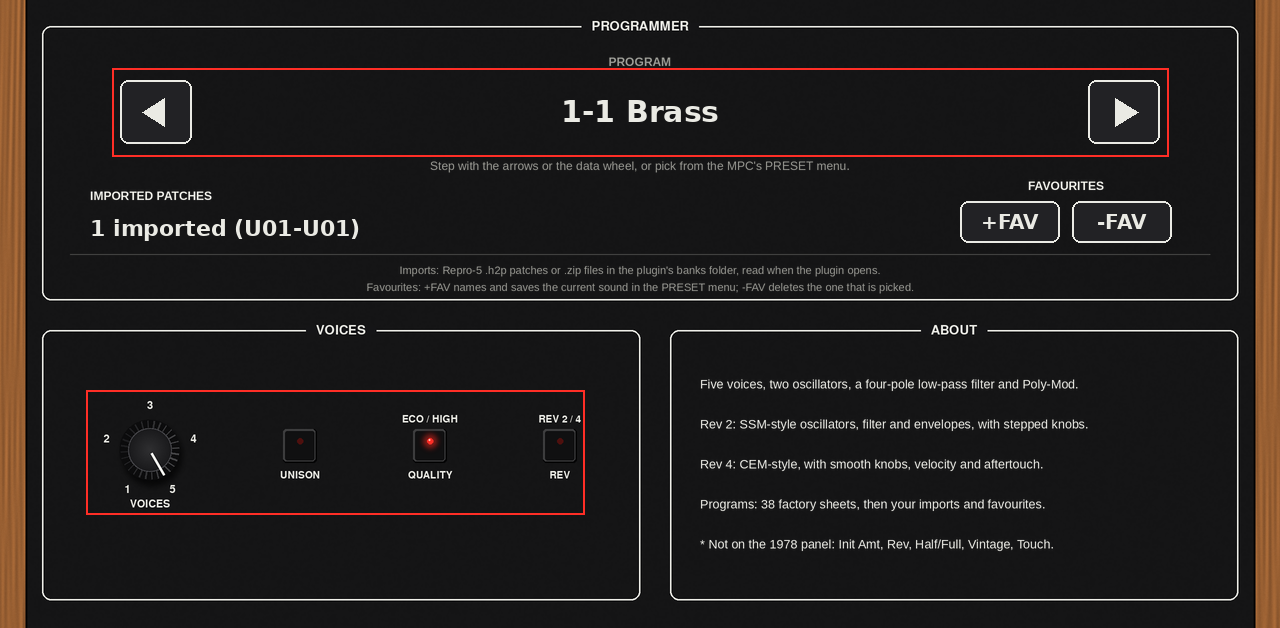
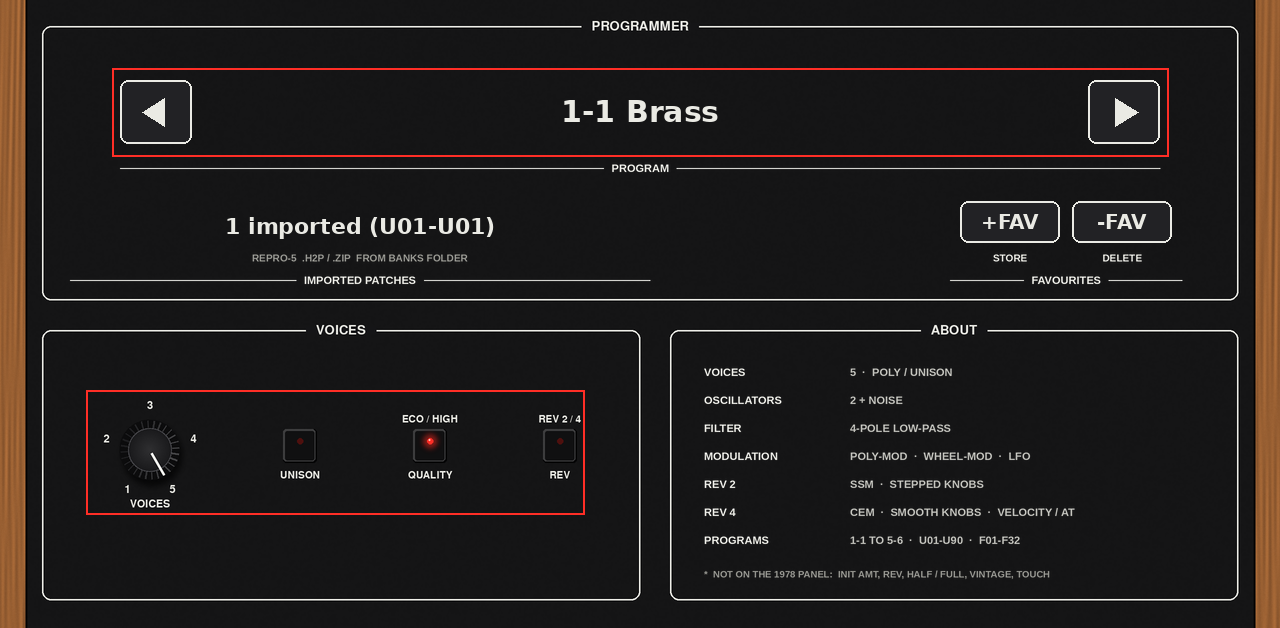
PROGRAMMER page: factory-label style
Short bold captions and ruled legends as on the other panels instead of
sentences: PROGRAM under the selector, IMPORTED PATCHES with its source line,
STORE / DELETE under the favourite keys over a FAVOURITES legend. ABOUT is a
spec plate of bold keys and short values.

Claude-Session: https://claude.ai/code/session_01JtHXuUgC5yMUnadF7qaF7X

diff --git a/tools/make_tui.py b/tools/make_tui.py
@@ -147,18 +147,29 @@ def programmer_art():
 
     def text(x, y, s, px, fill=ink, anchor="mm", bold=True):
         d.text((ms.S(x), ms.S(y)), s, font=face_font(px, bold), fill=fill, anchor=anchor)
-    text(640, 166, "Step with the arrows or the data wheel, or pick from the MPC's PRESET menu.", 12, dim, bold=False)
-    text(90, 196, "IMPORTED PATCHES", 12, anchor="lm")
-    text(1066, 186, "FAVOURITES", 12)
-    d.line((ms.S(70), ms.S(254), ms.S(1210), ms.S(254)), fill=(70, 70, 68, 255), width=ms.S(1))
-    text(640, 270, "Imports: Repro-5 .h2p patches or .zip files in the plugin's banks folder, read when the plugin opens.", 11, dim, bold=False)
-    text(640, 287, "Favourites: +FAV names and saves the current sound in the PRESET menu; -FAV deletes the one that is picked.", 11, dim, bold=False)
-    for i, line in enumerate(["Five voices, two oscillators, a four-pole low-pass filter and Poly-Mod.",
-                              "Rev 2: SSM-style oscillators, filter and envelopes, with stepped knobs.",
-                              "Rev 4: CEM-style, with smooth knobs, velocity and aftertouch.",
-                              "Programs: 38 factory sheets, then your imports and favourites.",
-                              "* Not on the 1978 panel: Init Amt, Rev, Half/Full, Vintage, Touch."]):
-        text(700, 384 + i * 40, line, 12.5, anchor="lm", bold=False)
+    def legend(x0, x1, y, label, px=11):   # the panel's group legend: "—— LABEL ——"
+        f = face_font(px, True)
+        tw = d.textlength(label, font=f) / ms.SS
+        cx = (x0 + x1) / 2
+        for a, b in ((x0, cx - tw / 2 - 8), (cx + tw / 2 + 8, x1)):
+            d.line((ms.S(a), ms.S(y), ms.S(b), ms.S(y)), fill=ink, width=ms.S(1))
+        text(cx, y, label, px)
+    # PROGRAMMER: the selector, imports on the left, favourites on the right; panel-style captions and legends only
+    legend(120, 1160, 168, "PROGRAM")
+    text(360, 258, "REPRO-5  .H2P / .ZIP  FROM BANKS FOLDER", 10, dim)
+    legend(70, 650, 280, "IMPORTED PATCHES")
+    text(1010, 258, "STORE", 10)
+    text(1122, 258, "DELETE", 10)
+    legend(950, 1182, 280, "FAVOURITES")
+    # ABOUT: a spec plate
+    plate = [("VOICES", "5  ·  POLY / UNISON"), ("OSCILLATORS", "2 + NOISE"), ("FILTER", "4-POLE LOW-PASS"),
+             ("MODULATION", "POLY-MOD  ·  WHEEL-MOD  ·  LFO"), ("REV 2", "SSM  ·  STEPPED KNOBS"),
+             ("REV 4", "CEM  ·  SMOOTH KNOBS  ·  VELOCITY / AT"), ("PROGRAMS", "1-1 TO 5-6  ·  U01-U90  ·  F01-F32")]
+    for i, (k, v) in enumerate(plate):
+        y = 372 + i * 28
+        text(704, y, k, 11, anchor="lm")
+        text(850, y, v, 11, (190, 190, 184, 255), anchor="lm")
+    text(704, 574, "*  NOT ON THE 1978 PANEL:  INIT AMT, REV, HALF / FULL, VINTAGE, TOUCH", 9.5, dim, anchor="lm")
     art = art.convert("RGBA")
     art.alpha_composite(hi.resize((ms.W, ms.H), Image.LANCZOS))
     return save(art.convert("RGB"), "program_native.png")
@@ -285,7 +296,7 @@ def build_page(name, fn, spec):
         elif kind == "readout":
             w, h = int(a["w"]), int(a["h"])
             if name == "PROGRAMMER":   # imports on the left of the row, +FAV / -FAV on the right (programmer_art)
-                p.kids.append(label(B(90, cy - h // 2 + 6, 560, h), P(key), h=24.0, colour="ffeaeae4", style="SemiBold", just="left verticallyCentred"))
+                p.kids.append(label(B(70, cy - h // 2 + 4, 580, h), P(key), h=24.0, colour="ffeaeae4", style="SemiBold"))
                 p.sample[key] = "1 imported (U01-U01)"
                 for k, cap, x in (("fav_add", "+FAV", 960), ("fav_del", "-FAV", 1072)):
                     p.kids.append(entry(k, "Button", {"version": 2, "onImage": save(text_key(100, 42, cap, True), k + "_on.png"),
